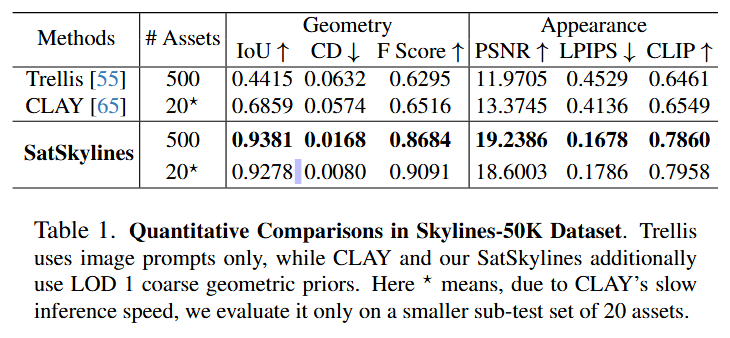
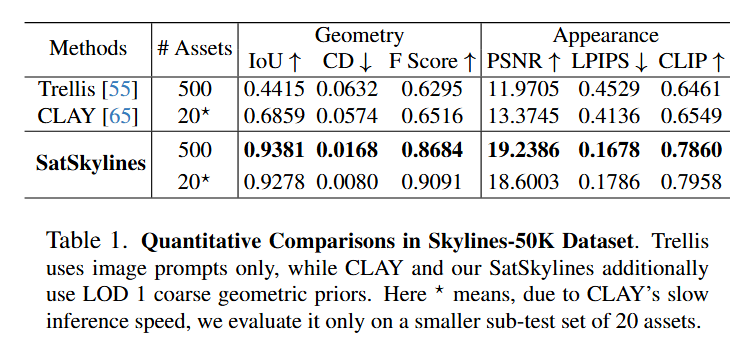
[Feature] fix iphone visualization

diff --git a/assets/css/main.scss b/assets/css/main.scss
@@ -40,3 +40,45 @@
     "vendor/font-awesome/solid",
     "vendor/font-awesome/brands"
 ;
+/* Custom Publication Item Styles */
+.publication-item {
+  display: flex;
+  align-items: flex-start;
+  margin-bottom: 30px;
+  padding: 15px;
+  border: 1px solid #e0e0e0;
+  border-radius: 8px;
+  position: relative;
+  background: #fff; /* Ensure background is white */
+}
+
+.publication-item-image {
+  width: 200px;
+  margin-right: 20px;
+  border-radius: 5px;
+  flex-shrink: 0;
+  object-fit: cover;
+}
+
+.publication-item-content {
+  flex-grow: 1;
+}
+
+@media (max-width: 768px) {
+  .publication-item {
+    flex-direction: column;
+    align-items: center; /* Center items on mobile */
+  }
+  
+  .publication-item-image {
+    width: 100%;
+    max-width: 100%; /* Or keep it smaller? The user screenshot shows it squeezed. Full width usually looks better on mobile */
+    margin-right: 0;
+    margin-bottom: 15px;
+  }
+  
+  .publication-item-content {
+    width: 100%;
+  }
+}
+

diff --git a/projects/SatSkylines/index.html b/projects/SatSkylines/index.html
@@ -307,8 +307,9 @@
   <div class="container is-max-desktop content">
     <h2 class="title">Acknowledgement</h2>
     <p>
-      The project or effort depicted was or is sponsored by the DEVCOM Army Research Lab under contract number W911QX-21-D-0001. 
-      The content of the information does not necessarily reflect the position or the policy of the Government, and no official endorsement should be inferred.
+      The authors would like to thank our primary sponsors of this research: Mr. Clayton Burford of the Battlespace Content Creation (BCC) team at Simulation and Training Technology Center (STTC).
+      This work is supported by University Affiliated Research Center (UARC) award W911NF-14-D-0005. 
+      Statements and opinions expressed and content included do not necessarily reflect the position or the policy of the Government, and no official endorsement should be inferred.
     </p>
   </div>
 </section>

diff --git a/_pages/about.md b/_pages/about.md
@@ -20,12 +20,12 @@ My research interests mainly are in
 Publications
 ======
 
-<div style="display: flex; align-items: flex-start; margin-bottom: 30px; padding: 15px; border: 1px solid #e0e0e0; border-radius: 8px; position: relative;">
+<div class="publication-item">
   <div style="position: absolute; top: 10px; left: 10px; background: #1f9aad; color: #fff; padding: 6px 10px; font-size: 13px; font-weight: 700; border-radius: 6px; box-shadow: 0 2px 4px rgba(0,0,0,0.15);">
     3DV 2026
   </div>
-  <img src="/images/Publications/SatSkylines_Teaser.png" alt="Paper 1 Thumbnail" style="width: 200px; margin-right: 20px; border-radius: 5px;">
-  <div>
+  <img src="/images/Publications/SatSkylines_Teaser.png" alt="Paper 1 Thumbnail" class="publication-item-image">
+  <div class="publication-item-content">
     <h3 style="margin: 0 0 10px 0; font-size: 18px; font-weight: bold; color: #333;">
       SAT-SKYLINES: 3D Building Generation from Satellite Imagery and Coarse Geometric Priors
     </h3>
@@ -42,12 +42,12 @@ Publications
   </div>
 </div>
 
-<div style="display: flex; align-items: flex-start; margin-bottom: 30px; padding: 15px; border: 1px solid #e0e0e0; border-radius: 8px; position: relative;">
+<div class="publication-item">
   <div style="position: absolute; top: 10px; left: 10px; background: #1f9aad; color: #fff; padding: 6px 10px; font-size: 13px; font-weight: 700; border-radius: 6px; box-shadow: 0 2px 4px rgba(0,0,0,0.15);">
     WACV 2026
   </div>
-  <img src="/images/Publications/PromptGAR_Teaser.png" alt="Paper 3 Thumbnail" style="width: 200px; margin-right: 20px; border-radius: 5px;">
-  <div>
+  <img src="/images/Publications/PromptGAR_Teaser.png" alt="Paper 3 Thumbnail" class="publication-item-image">
+  <div class="publication-item-content">
     <h3 style="margin: 0 0 10px 0; font-size: 18px; font-weight: bold; color: #333;">
       PromptGAR: Flexible Promptive Group Activity Recognition
     </h3>
@@ -64,12 +64,12 @@ Publications
   </div>
 </div>
 
-<div style="display: flex; align-items: flex-start; margin-bottom: 30px; padding: 15px; border: 1px solid #e0e0e0; border-radius: 8px; position: relative;">
+<div class="publication-item">
   <div style="position: absolute; top: 10px; left: 10px; background: #1f9aad; color: #fff; padding: 6px 10px; font-size: 13px; font-weight: 700; border-radius: 6px; box-shadow: 0 2px 4px rgba(0,0,0,0.15);">
     WACV 2026
   </div>
-  <img src="/images/Publications/Discrete_Facial_Encoding_Teaser.png" alt="Paper 2 Thumbnail" style="width: 200px; margin-right: 20px; border-radius: 5px;">
-  <div>
+  <img src="/images/Publications/Discrete_Facial_Encoding_Teaser.png" alt="Paper 2 Thumbnail" class="publication-item-image">
+  <div class="publication-item-content">
     <h3 style="margin: 0 0 10px 0; font-size: 18px; font-weight: bold; color: #333;">
       Discrete Facial Encoding: A Framework for Data-driven Facial Display Discovery
     </h3>
